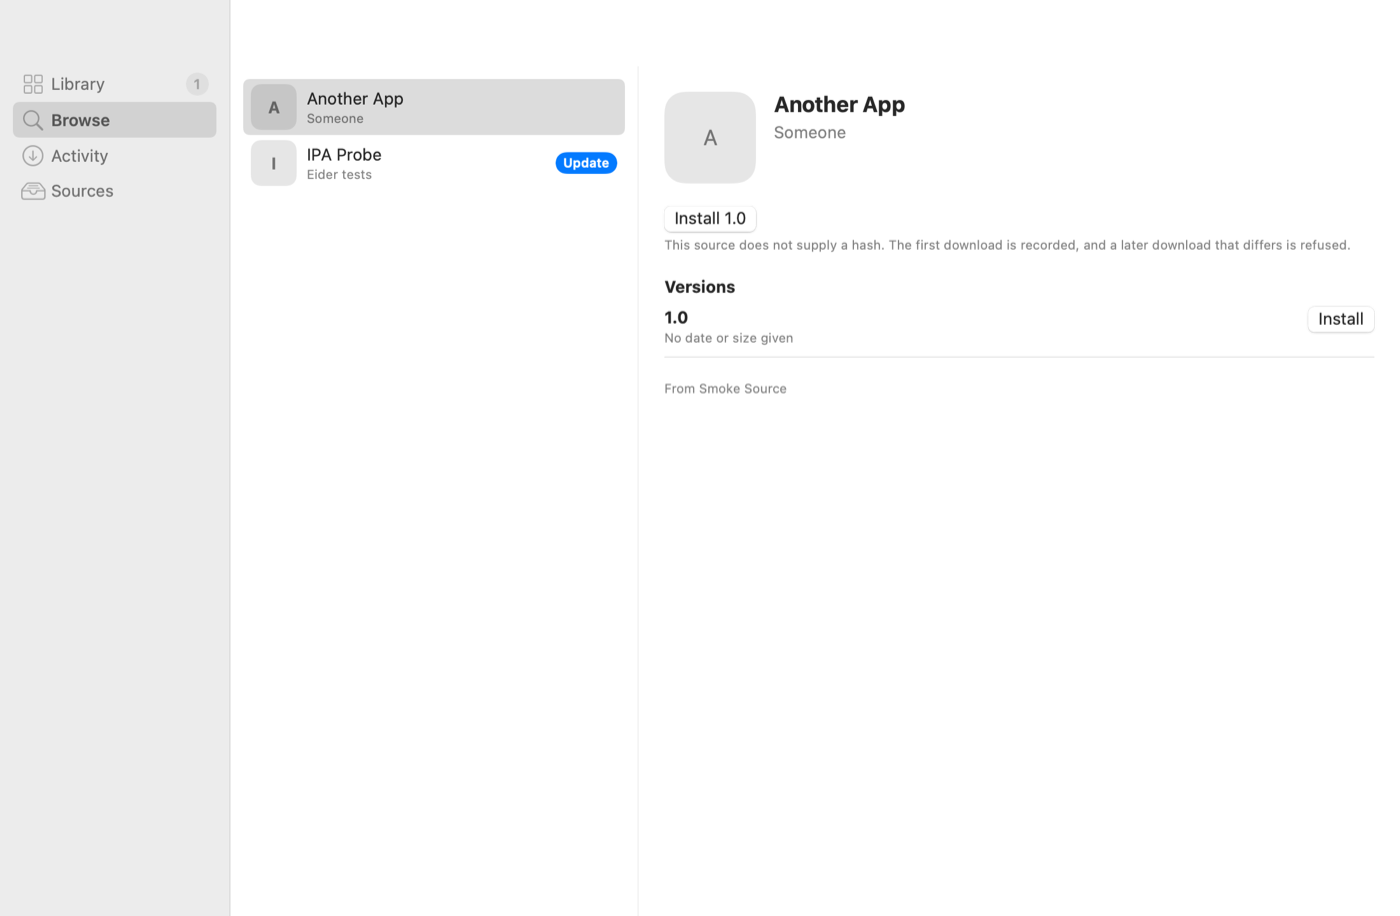
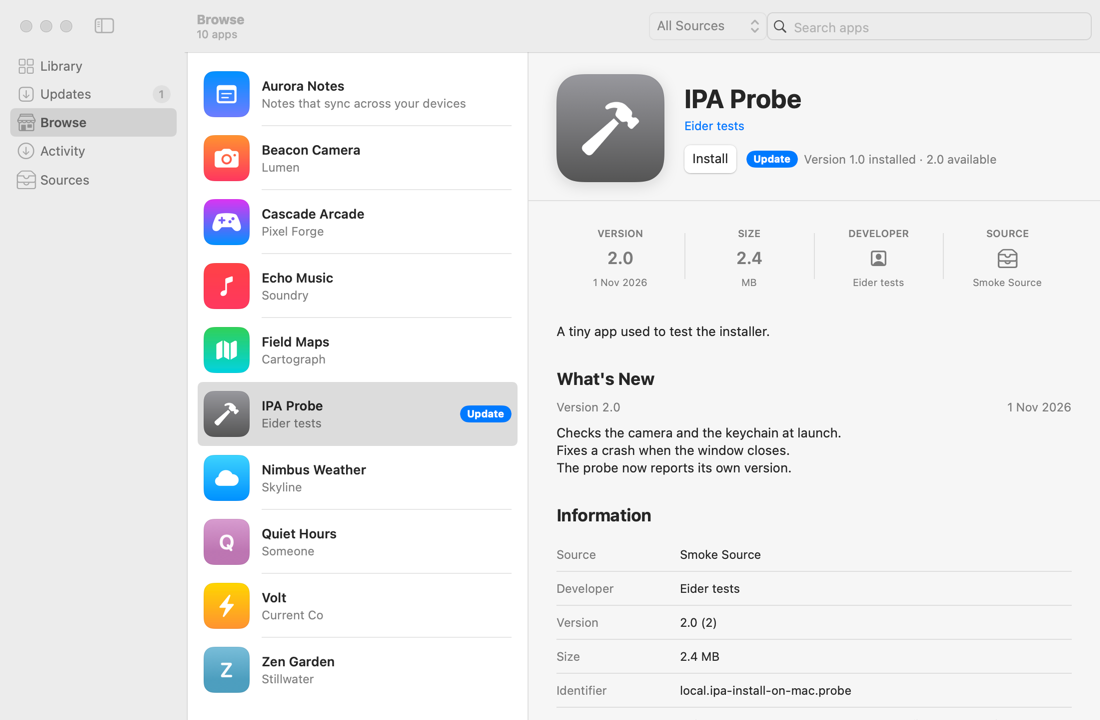
docs: provenance, update matching and the App Store layout
ARCHITECTURE.md states the contract the matcher now follows (origin first,
never widened, replacingBundleID on update) so the next change to it has the
rule in writing. The README lists the five places and the Updates page, and
its pictures are the new snapshots.

diff --git a/docs/ARCHITECTURE.md b/docs/ARCHITECTURE.md
@@ -83,6 +83,29 @@ Eider.app (Sources/EiderApp)      eider CLI (Sources/eider)
   by the merged order, installs and `UpdateChecker`: numeric versions by number,
   never a hash or label above a number, date only as a late tie-break
   (docs/SOURCES.md).
+- Provenance and update matching. A catalog install or update records an
+  optional `InstallOrigin` on the library entry: the source's address and the
+  entry id as the source lists it. The listed id may differ from the IPA's own
+  (an entry listed as "com.kdt.l!vecontainer" installs as
+  "com.kdt.livecontainer"), so the origin is the only link back to the entry.
+  Both strings are data, compared with the catalog and never made into a path.
+  The key is absent in entries written before it, and those load unchanged;
+  a file or plain-address install has none. `UpdateChecker` takes, per
+  installed app, the origin's entry if that source is still added and still
+  lists it; otherwise, for an old entry, the entries with its bundle id in the
+  source it recorded; otherwise every entry with its bundle id in any source.
+  A known origin is never widened to other sources. The offer is the
+  candidate version that `ranksAbove` the rest, only if it is newer than the
+  installed version (`AppVersion.isNewer`), and it names the source and entry
+  it comes from. `AppOperations.update` installs exactly that version from
+  there, keeps the installed options and data, and passes the installed id as
+  `replacingBundleID`: an IPA whose final id differs stops before placement,
+  so an update can replace the app it was asked to or nothing, never add a
+  second one. The CLI (`eider list`, `eider update [--all]`) and the app use
+  the same matcher. The app works the list out off the main actor at each
+  reload, fetches sources older than six hours in the background at launch,
+  runs Update All one app at a time through Activity, and shows the count on
+  the Updates sidebar item and the Dock tile (`DockBadge`).
 - Catalog parsing is hot (one source in use lists 17,430 entries): dates in the
   common shapes are read by hand (`InternetDate`) before any formatter,
   warning text is built only when a warning is written, and printable ASCII

diff --git a/README.md b/README.md
@@ -66,18 +66,27 @@ Sources can be in the AltStore or the PlayCover format; see
 
 ## The app
 
-`Eider.app` has four places: Library (what you installed, with updates),
-Browse (the apps your sources offer), Activity (downloads and installs in
-progress) and Sources (add, refresh and remove them). Dropping an `.ipa` on
+`Eider.app` is laid out like the Mac App Store and has five places: Library
+(a grid of what you installed), Updates (every installed app a source has a
+newer version of, with its release notes, Update and Update All; the count
+shows on the sidebar and the Dock icon), Browse (the apps your sources offer,
+each with a product page: screenshots, What's New, information and version
+history), Activity (downloads and installs, one ring each) and Sources (add,
+refresh and remove them). Updates are matched to the entry an app was
+installed from, even when the source lists it under another id than the app
+has, and sources older than six hours are fetched again in the background
+when the app opens. Dropping an `.ipa` on
 the window installs it. An `eider://source/<url>` or `eider://install/<url>`
 link always asks before it does anything. The app and the CLI share one
 engine, `EiderKit`, so they behave the same.
 
-The Library and Browse sections, drawn by the app's own `--snapshot` mode against a test source:
+The Library, Updates and Browse sections, drawn by the app's own `--snapshot` mode against a test source:
 
 ![Library: an installed app with an update available](docs/images/library.png)
 
-![Browse: a source's apps and the detail pane](docs/images/browse.png)
+![Updates: the installed app's newer version, with its source, date and size](docs/images/updates.png)
+
+![Browse: a source's apps and an app's product page](docs/images/browse.png)
 
 ## How an install works
 
